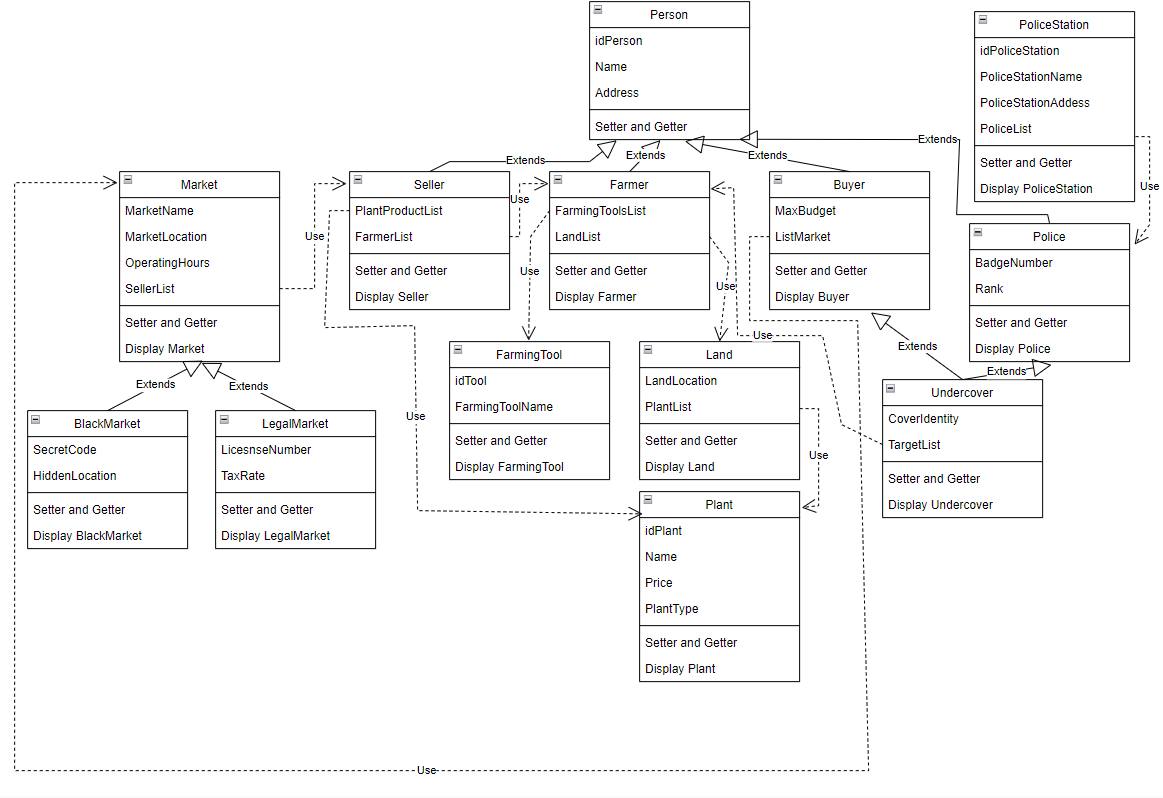
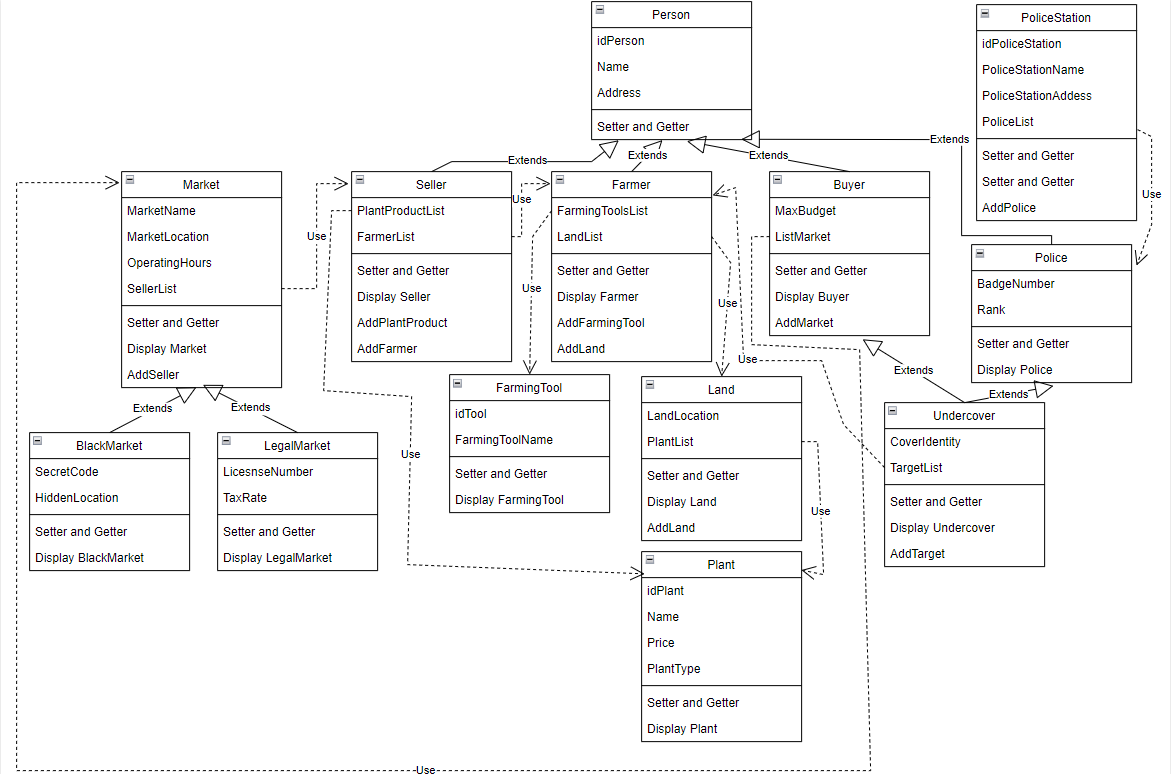
Finishing README

Changed region(s): [[0.0, 0.0, 1.0, 0.9612], [0.0, 0.9612, 0.7429, 1.0], [0.8667, 0.7132, 0.8977, 0.7442]]

diff --git a/README.md b/README.md
@@ -6,6 +6,8 @@ NOTE : Tema ini saya ambil dengan persetujuan asprak yang bersangkutan.
 
 ![Diagram](Diagram.png)
 
+---
+
 # PENJELASAN DIAGRAM CLASS
 
 ## 🔹 1. Inheritance
@@ -58,7 +60,7 @@ NOTE : Tema ini saya ambil dengan persetujuan asprak yang bersangkutan.
 
 ## 🔹 3. Array of Object
 
-- **Market** → menyimpan banyak **Seller** dalam `List<Seller>`  
+- **Market** → menyimpan banyak **Seller**  
 - **Seller** → menyimpan banyak **Plant** dan **Farmer**  
 - **Farmer** → menyimpan banyak **Land**, **Plant**, dan **FarmingTool**  
 - **PoliceStation** → menyimpan banyak **Police**  
@@ -82,135 +84,208 @@ NOTE : Tema ini saya ambil dengan persetujuan asprak yang bersangkutan.
 - Maka, terbentuk **Hybrid Inheritance**  
 
 # PENJELASAN ATRIBUT DAN METHOD CLASS
-  1. Class `Person` memiliki atribut:
-    - idPerson (id unik setiap orang)
-    - Name (nama orang)
-    - Address (alamat tempat tinggal orang)
+###  1. **Class `Person`**  
+    Atribut:    
+      - idPerson (id unik setiap orang)  
+      - Name (nama orang)  
+      - Address (alamat tempat tinggal orang)  
 
-    Method:
-    - Getter untuk semua atribut
-    - Setter untuk semua atribut kecuali id (agar id tidak bisa diubah setelah di construct)
+    Method:  
+      - Getter untuk semua atribut  
+      - Setter untuk semua atribut kecuali id (agar id tidak bisa diubah setelah di construct)  
 
-  2. Class `Farmer` memiliki atribut:
-    - FarmingToolList (Alat yang digunakan petani)
-    - LandList (Lahan yang dimiliki oleh petani)
+###  2. **Class `Farmer`**  
+    Atribut:  
+      - FarmingToolList (Alat yang digunakan petani)  
+      - LandList (Lahan yang dimiliki oleh petani)  
 
-    Method:
-      - Getter untuk semua atribut
-      - Setter untuk semua atribut
-      - DisplayFarmer untuk menampilkan semua data `Farmer`
+    Method:  
+      - Getter untuk semua atribut  
+      - Setter untuk semua atribut  
+      - AddFarmingTool untuk menambahkan farming tool  
+      - AddLand untuk menambahkan lahan  
+      - DisplayFarmer untuk menampilkan semua data `Farmer`  
 
-  3. Class `Buyer` memiliki atribut:
-    - MaxBudget (Jumlah maksimal uang yang bisa digunakan)
-    - ListMarket (List Pasar tempat buyer berbelanja)
+###  3. **Class `Buyer`**  
+    Atribut:  
+      - MaxBudget (Jumlah maksimal uang yang bisa digunakan)  
+      - ListMarket (List Pasar tempat buyer berbelanja)  
 
-    Method:
-      - Getter untuk semua atribut
-      - Setter untuk semua atribut
-      - DisplayBuyer untuk menampilkan semua data `Buyer`
+    Method:  
+      - Getter untuk semua atribut  
+      - Setter untuk semua atribut  
+      - AddMarket untuk menambahkan pasar  
+      - DisplayBuyer untuk menampilkan semua data `Buyer`  
 
-  4. Class `Seller` memiliki atribut:
-    - PlantProductList (List tanaman yang seller jual)
-    - FarmerList (Petani mitra tempat seller mendapatkan produk)
+ ### 4. **Class `Seller`**  
+    Atribut:  
+      - PlantProductList (List tanaman yang seller jual)  
+      - FarmerList (Petani mitra tempat seller mendapatkan produk)  
 
-    Method:
-      - Getter untuk semua atribut
-      - Setter untuk semua atribut
-      - DisplaySeller untuk menampilkan semua data `Seller`
+    Method:  
+      - Getter untuk semua atribut  
+      - Setter untuk semua atribut  
+      - AddPlantProduct untuk menambahkan produk tanaman  
+      - AddFarmer untuk menambahkan petani  
+      - DisplaySeller untuk menampilkan semua data `Seller`  
 
-  5. Class `Police` memiliki atribut:
-    - BadgeNumber (Nomor unik yang hanya dimiliki polisi)
-    - Rank (Posisi yang dimiliki oleh polisi)
+###  5. **Class `Police`**  
+    Atribut:  
+      - BadgeNumber (Nomor unik yang hanya dimiliki polisi)  
+      - Rank (Posisi yang dimiliki oleh polisi)  
 
-    Method:
-      - Getter untuk semua atribut
-      - Setter untuk semua atribut
-      - DisplayPolice untuk menampilkan semua data `Police`
+    Method:  
+      - Getter untuk semua atribut  
+      - Setter untuk semua atribut  
+      - DisplayPolice untuk menampilkan semua data `Police`  
 
-  6. Class `UnderCover` memiliki atribut:
-    - CoverIdentity (Identitas rahasia yang digunakan intel)
-    - TargetList (List petani yang dijadikan suspect)
+###  6. **Class `UnderCover`**  
+    Atribut:  
+      - CoverIdentity (Identitas rahasia yang digunakan intel)  
+      - TargetList (List petani yang dijadikan suspect)  
 
-    Method:
-      - Getter untuk semua atribut
-      - Setter untuk semua atribut
-      - DisplayUndercover untuk menampilkan semua data `Undercover`
+    Method:  
+      - Getter untuk semua atribut  
+      - Setter untuk semua atribut  
+      - AddTarget untuk menambahkan petani  
+      - DisplayUndercover untuk menampilkan semua data `Undercover`  
 
-  7. Class `PoliceStation` memiliki atribut:
-    - idPoliceStation (id unik setiap kantor polisi)
-    - PoliceStationName (Nama dari kantor polisi)
-    - PoliceStationAddress (Alamat dari kantor polisi)
-    - PoliceList (List polisi yang ditugaskan di kantor polisi)
+###  7. **Class `PoliceStation`**  
+    Atribut:  
+      - idPoliceStation (id unik setiap kantor polisi)  
+      - PoliceStationName (Nama dari kantor polisi)  
+      - PoliceStationAddress (Alamat dari kantor polisi)  
+      - PoliceList (List polisi yang ditugaskan di kantor polisi)  
 
-    Method:
-      - Getter untuk semua atribut
-      - Setter untuk semua atribut kecuali id (agar tidak bisa diubah setelah di construct)
-      - DisplayPoliceStation untuk menampilkan semua data `PoliceStation`
+    Method:  
+      - Getter untuk semua atribut  
+      - Setter untuk semua atribut kecuali id (agar tidak bisa diubah setelah di construct)  
+      - AddPolice untuk menambahkan polisi  
+      - DisplayPoliceStation untuk menampilkan semua data `PoliceStation`  
 
-  8. Class `FarmingTool` memiliki atribut:
-    - idTool (id unik setiap alat)
-    - FarmingToolName (nama dari alat)
+###  8. **Class `FarmingTool`**  
+    Atribut:  
+      - idTool (id unik setiap alat)  
+      - FarmingToolName (nama dari alat)  
 
-    Method:
-      - Getter untuk semua atribut
-      - Setter untuk semua atribut selain id (agar id tidak bisa diubah lagi setelah di construct)
-      - DisplayFarmingTool untuk menampilkan semua data `FarmingTool`
+    Method:  
+      - Getter untuk semua atribut  
+      - Setter untuk semua atribut selain id (agar id tidak bisa diubah lagi setelah di construct)  
+      - DisplayFarmingTool untuk menampilkan semua data `FarmingTool`  
 
-  9. Class `Land` memiliki atribut:
-    - LandLocation (lokasi dari lahan)
-    - PlantList (list dari tanaman yang ditanam)
+###  9. **Class `Land`**  
+    Atribut:  
+      - LandLocation (lokasi dari lahan)  
+      - PlantList (list dari tanaman yang ditanam)  
 
-    Method:
-      - Getter untuk semua atribut
-      - Setter untuk semua atribut
-      - DisplayLand untuk menampilkan semua data `Land`
+    Method:  
+      - Getter untuk semua atribut  
+      - Setter untuk semua atribut  
+      - AddPlant untuk menambahkan tanaman  
+      - DisplayLand untuk menampilkan semua data `Land`  
 
-  10. Class `Plant` memiliki atribut:
-    - idPlant (id unik untuk setiap tanaman)
-    - Name (nama tanaman)
-    - Price (harga tanaman)
-    - PlantType (jenis tanaman legal atau illegal)
+###  10. **Class `Plant`**  
+    Atribut:  
+      - idPlant (id unik untuk setiap tanaman)  
+      - Name (nama tanaman)  
+      - Price (harga tanaman)  
+      - PlantType (jenis tanaman legal atau illegal)  
 
-    Method:
-      - Getter untuk semua atribut
-      - Setter untuk semua atribut kecuali id (agar id tidak bisa diubah setelah construct)
-      - DisplayPlant untuk menampilkan semua data `Plant`
+    Method:  
+      - Getter untuk semua atribut  
+      - Setter untuk semua atribut kecuali id (agar id tidak bisa diubah setelah construct)  
+      - DisplayPlant untuk menampilkan semua data `Plant`  
 
-  11. Class `Market` memiliki atribut:
-      - MarketName (nama dari pasar)
-      - MarketLocation (Lokasi dari pasar)
-      - OperatinHours (jam buka pasar)
-      - SellerList (List pedagang yang berjualan di pasar)
+###  11. **Class `Market`**  
+    Atribut:  
+      - MarketName (nama dari pasar)  
+      - MarketLocation (Lokasi dari pasar)  
+      - OperatinHours (jam buka pasar)  
+      - SellerList (List pedagang yang berjualan di pasar)  
 
-      Method:
-        - Getter untuk semua atribut
-        - Setter untuk semua atribut
-        - DisplayMarket untuk menampilkan semua data `Market`
+    Method:  
+      - Getter untuk semua atribut  
+      - Setter untuk semua atribut  
+      - AddSeller untuk menambahkan pedagang  
+      - DisplayMarket untuk menampilkan semua data `Market`  
 
-  12. Class `LegalMarket` memiliki atribut:
-      - LicenseNumber (Nomor bisnis yang terdaftar di pemerintah)
-      - TaxRate (Nilai pajak dari pasar)
+###  12. **Class `LegalMarket`**  
+    Atribut:  
+      - LicenseNumber (Nomor bisnis yang terdaftar di pemerintah)  
+      - TaxRate (Nilai pajak dari pasar)  
 
-      Method:
-        - Setter untuk semua atribut
-        - Getter untuk semua atribut
-        - DisplayLegalMarket untuk menampilkan semua data `LegalMarket`
+    Method:  
+      - Setter untuk semua atribut  
+      - Getter untuk semua atribut  
+      - DisplayLegalMarket untuk menampilkan semua data `LegalMarket`  
 
-  13. Class `BlackMarket` memiliki atribut:
-      - SecretCode (Kode rahasia untuk masuk ke black market)
-      - HiddenLocation (Lokasi sebenarnya dari black market)
+###  13. **Class `BlackMarket`**  
+    Atribut:  
+      - SecretCode (Kode rahasia untuk masuk ke black market)  
+      - HiddenLocation (Lokasi sebenarnya dari black market)  
 
-      Method:
-        - Getter untuk semua atribut
-        - Setter untuk semua atribut
-        - DisplayBlackMarket untuk menampilkan semua data `BlackMarket`
+    Method:  
+      - Getter untuk semua atribut  
+      - Setter untuk semua atribut  
+      - DisplayBlackMarket untuk menampilkan semua data `BlackMarket`  
 
 # ALUR PROGRAM
+
+1. Program menambahkan data dummy ke Array of Object  
+2. Program menambahkan data melalui method addFarmingTool, addPlant, addLand, addFarmer, addPlantProduct, addSeller, addMarket, addPolice, dan addTarget  
+3. Program menampilkan informasi sebelum dan sesudah diupdate  
 
 # DOKUMENTASI
 
 ## CPP
+Sebelum Ditambah  
+![BlackMarket](Cpp/Dokumentasi/BlackMarket%20before.png)
+![LegalMarket](Cpp/Dokumentasi/LegalMarket%20Before.png)
+![Buyer](Cpp/Dokumentasi/Buyer%20Before.png)
+![Undercover and PoliceStation](Cpp/Dokumentasi/Undercover%20and%20PoliceStation%20Before.png)  
+
+Setelah Ditambah  
+![BlackMarket](Cpp/Dokumentasi/BlackMarket1%20After.png)
+![BlackMarket](Cpp/Dokumentasi/BlackMarket2%20After.png)
+![LegalMarket](Cpp/Dokumentasi/LegalMarket1%20After.png)
+![LegalMarket](Cpp/Dokumentasi/LegalMarket2%20After.png)
+![Buyer](Cpp/Dokumentasi/Buyer1%20After.png)
+![Buyer](Cpp/Dokumentasi/Buyer2%20After.png)
+![Undercover](Cpp/Dokumentasi/Undercover%20After.png)
+![PoliceStation](Cpp/Dokumentasi/PoliceStation%20After.png)  
 
 ## PYTHON
+Sebelum Ditambah  
+![BlackMarket](Python/Dokumentasi/BlackMarket%20Before.png)
+![LegalMarket](Python/Dokumentasi/LegalMarket%20Before.png)
+![Buyer](Python/Dokumentasi/Buyer%20Before.png)
+![Undercover and PoliceStation](Python/Dokumentasi/Undercover%20and%20PoliceStation%20Before.png)    
+
+Setelah Ditambah  
+![BlackMarket](Python/Dokumentasi/BlackMarket1%20After.png)
+![BlackMarket](Python/Dokumentasi/BlackMarket2%20After.png)
+![LegalMarket](Python/Dokumentasi/LegalMarket1%20After.png)
+![LegalMarket](Python/Dokumentasi/LegalMarket2%20After.png)
+![Buyer](Python/Dokumentasi/Buyer1%20After.png)
+![Buyer](Python/Dokumentasi/Buyer2%20After.png)
+![Undercover](Python/Dokumentasi/Undercover1%20After.png)
+![Undercover](Python/Dokumentasi/Undercover2%20After.png)
+![PoliceStation](Python/Dokumentasi/PoliceStation%20After.png)  
 
 ## JAVA
+Sebelum Ditambah  
+![BlackMarket](Java/Dokumentasi/BlackMarket%20Before.png)
+![LegalMarket](Java/Dokumentasi/LegalMarket%20Before.png)
+![Buyer](Java/Dokumentasi/BuyerBefore.png)
+![Undercover and PoliceStation](Java/Dokumentasi/Undercover%20and%20PoliceStation%20Before.png)  
+
+Setelah Ditambah  
+![BlackMarket](Java/Dokumentasi/BlackMarket1%20After.png)
+![BlackMarket](Java/Dokumentasi/BlackMarket2%20After.png)
+![LegalMarket](Java/Dokumentasi/LegalMarket1%20After.png)
+![LegalMarket](Java/Dokumentasi/LegalMarket2%20After.png)
+![Buyer](Java/Dokumentasi/Buyer1%20After.png)
+![Buyer](Java/Dokumentasi/Buyer2%20After.png)
+![Undercover](Java/Dokumentasi/Undercover1%20After.png)
+![Undercover](Java/Dokumentasi/Undercover2%20After.png)
+![PoliceStation](Java/Dokumentasi/PoliceStation%20After.png)  
